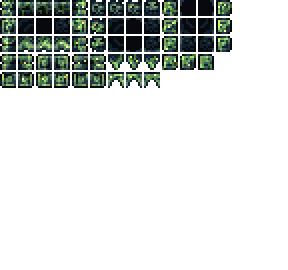
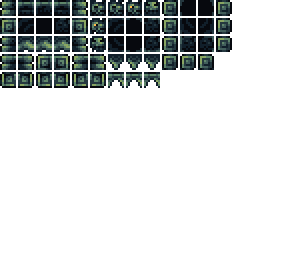
Added Mossy Green Catacomb Bricks.

diff --git a/Content/Tiles/Catacombs/MossyGreenCatacombBrickTile.cs b/Content/Tiles/Catacombs/MossyGreenCatacombBrickTile.cs
@@ -1,0 +1,24 @@
+using ITD.Content.Dusts;
+using Terraria;
+using Terraria.ID;
+using Terraria.ModLoader;
+using Microsoft.Xna.Framework;
+
+namespace ITD.Content.Tiles.Catacombs
+{
+    public class MossyGreenCatacombBrickTile : ModTile
+    {
+        public override void SetStaticDefaults()
+        {
+            Main.tileSolid[Type] = true;
+            HitSound = SoundID.Item101;
+            DustType = DustID.Shadowflame;
+            AddMapEntry(new Color(69, 120, 80));
+            MinPick = 120;
+        }
+        public override void NumDust(int i, int j, bool fail, ref int num)
+        {
+            num = fail ? 1 : 3;
+        }
+    }
+}

diff --git a/Content/Items/Placeable/MossyGreenCatacombBrick.cs b/Content/Items/Placeable/MossyGreenCatacombBrick.cs
@@ -1,0 +1,18 @@
+using ITD.Content.Tiles.Catacombs;
+using Terraria.ModLoader;
+
+namespace ITD.Content.Items.Placeable
+{
+    public class MossyGreenCatacombBrick : ModItem
+    {
+        public override void SetStaticDefaults()
+        {
+            Item.ResearchUnlockCount = 100;
+        }
+
+        public override void SetDefaults()
+        {
+            Item.DefaultToPlaceableTile(ModContent.TileType<MossyGreenCatacombBrickTile>());
+        }
+    }
+}
